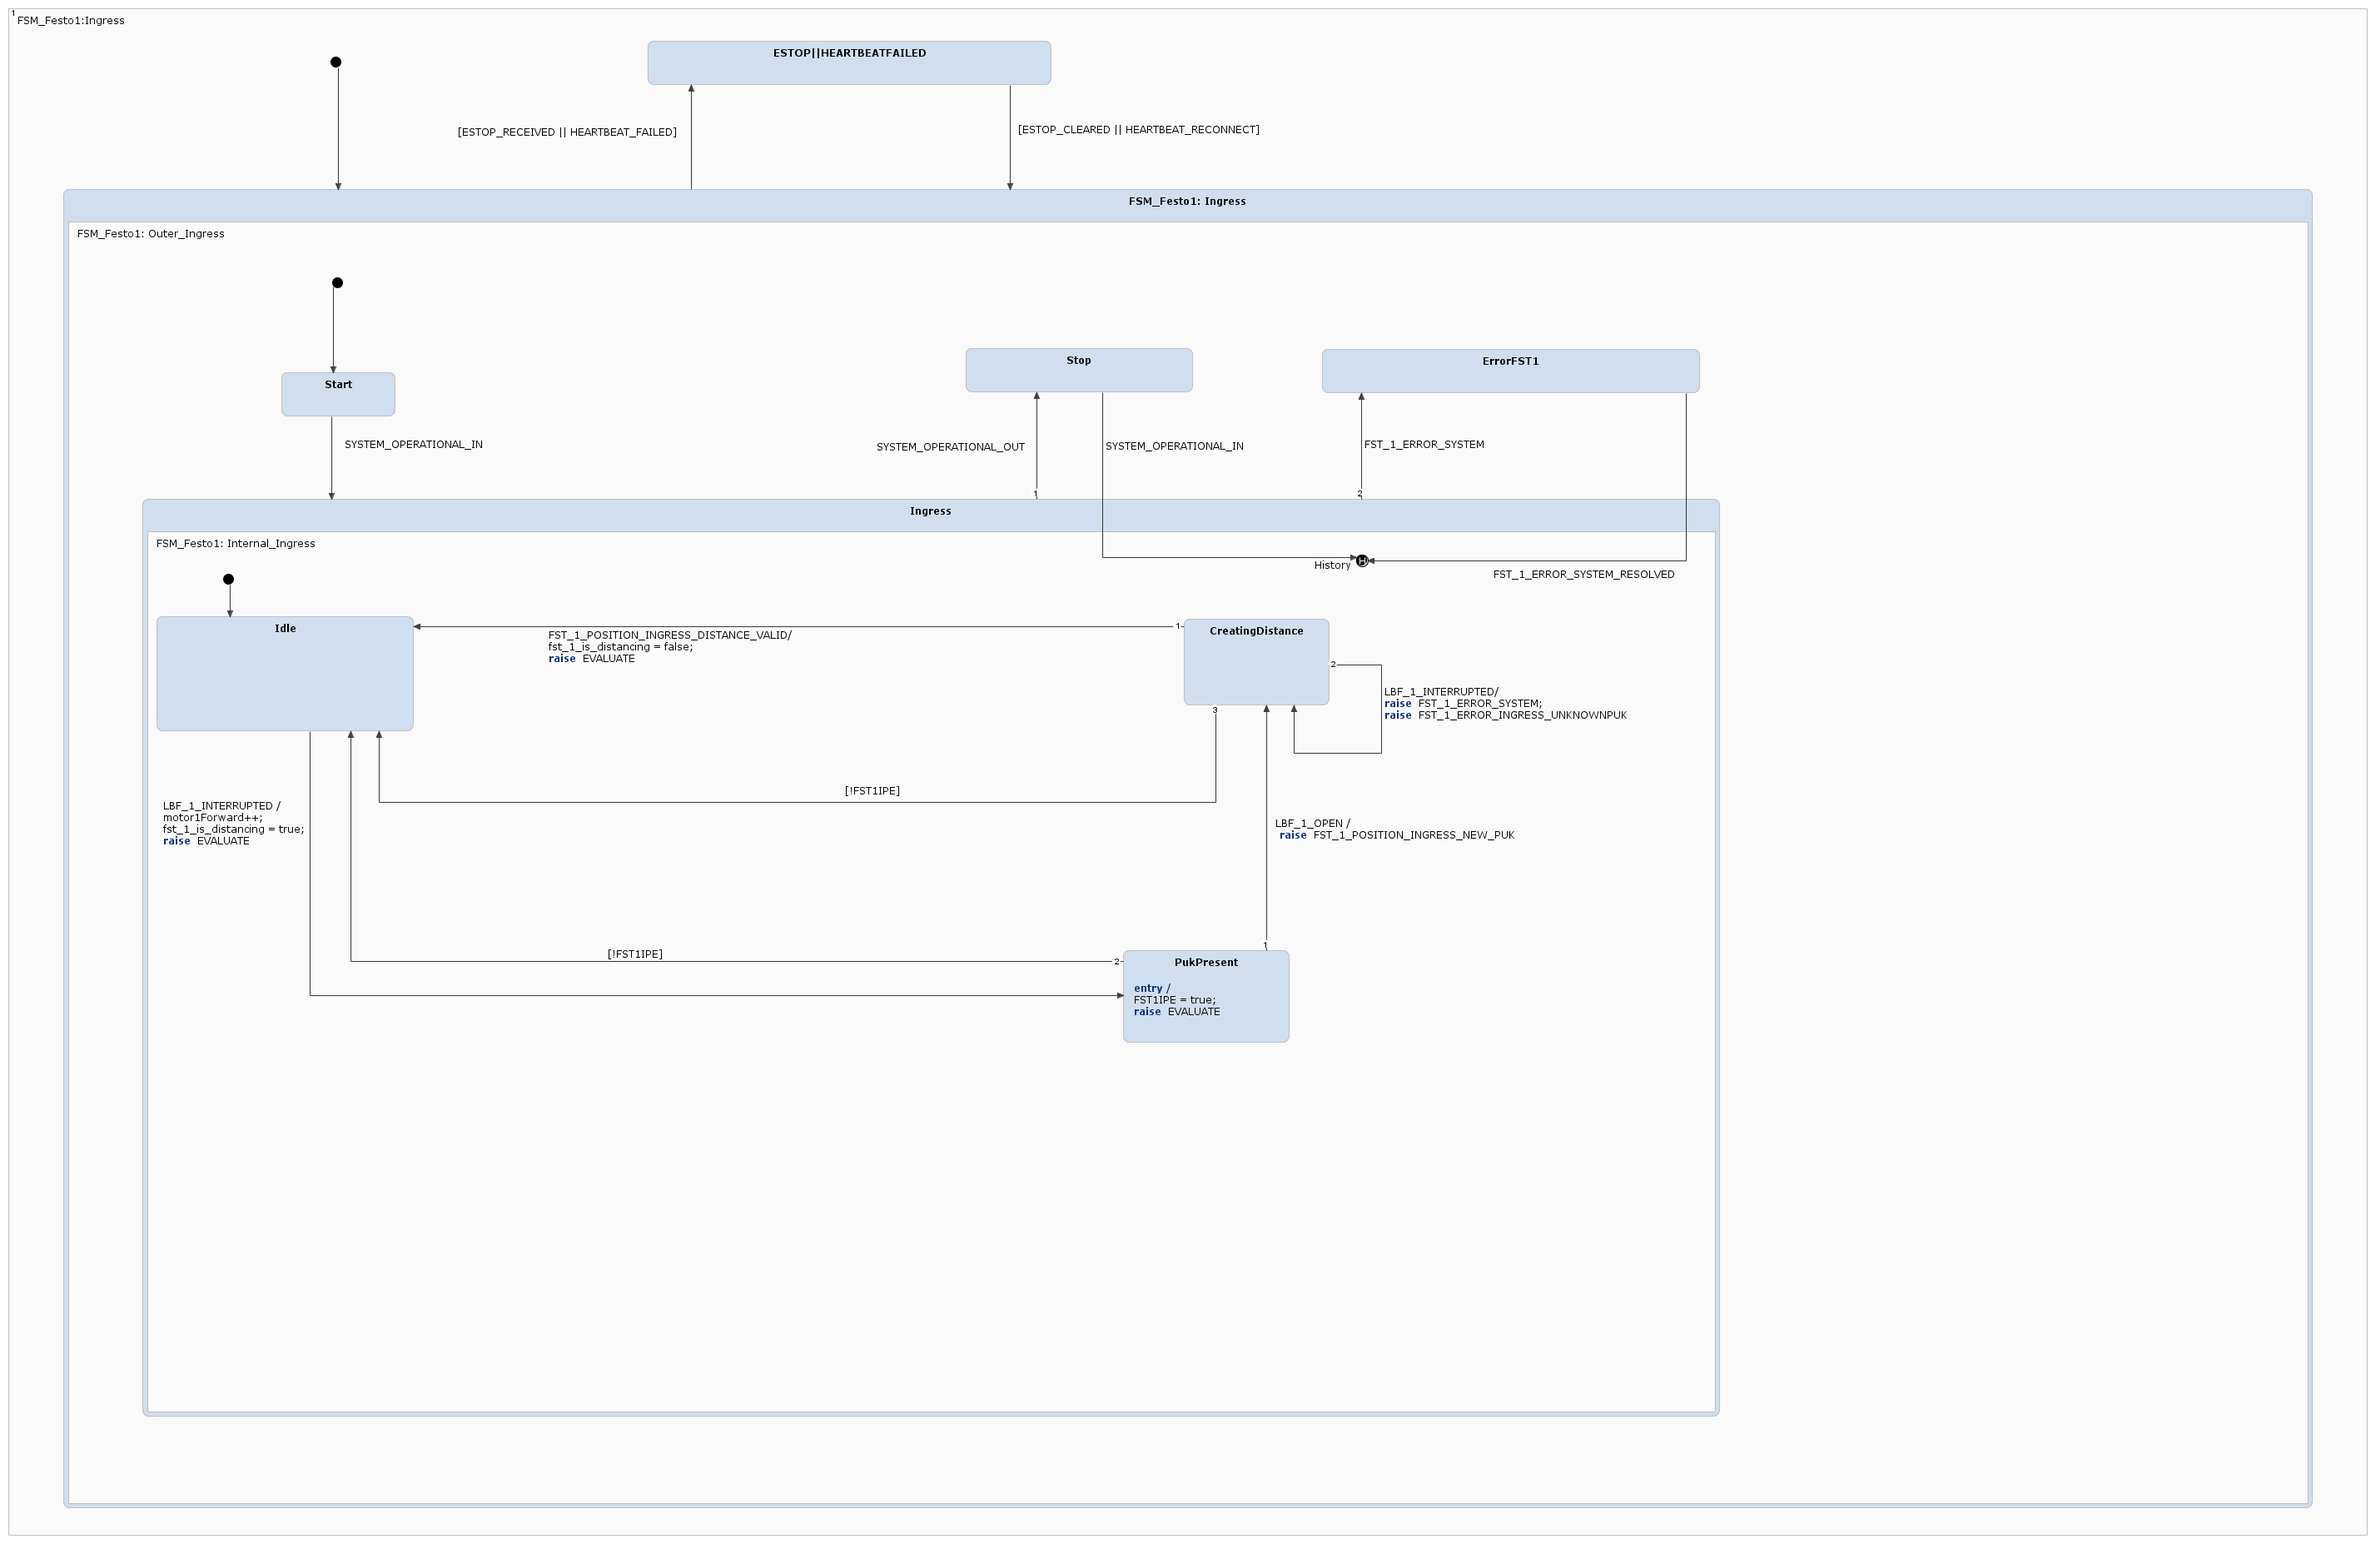
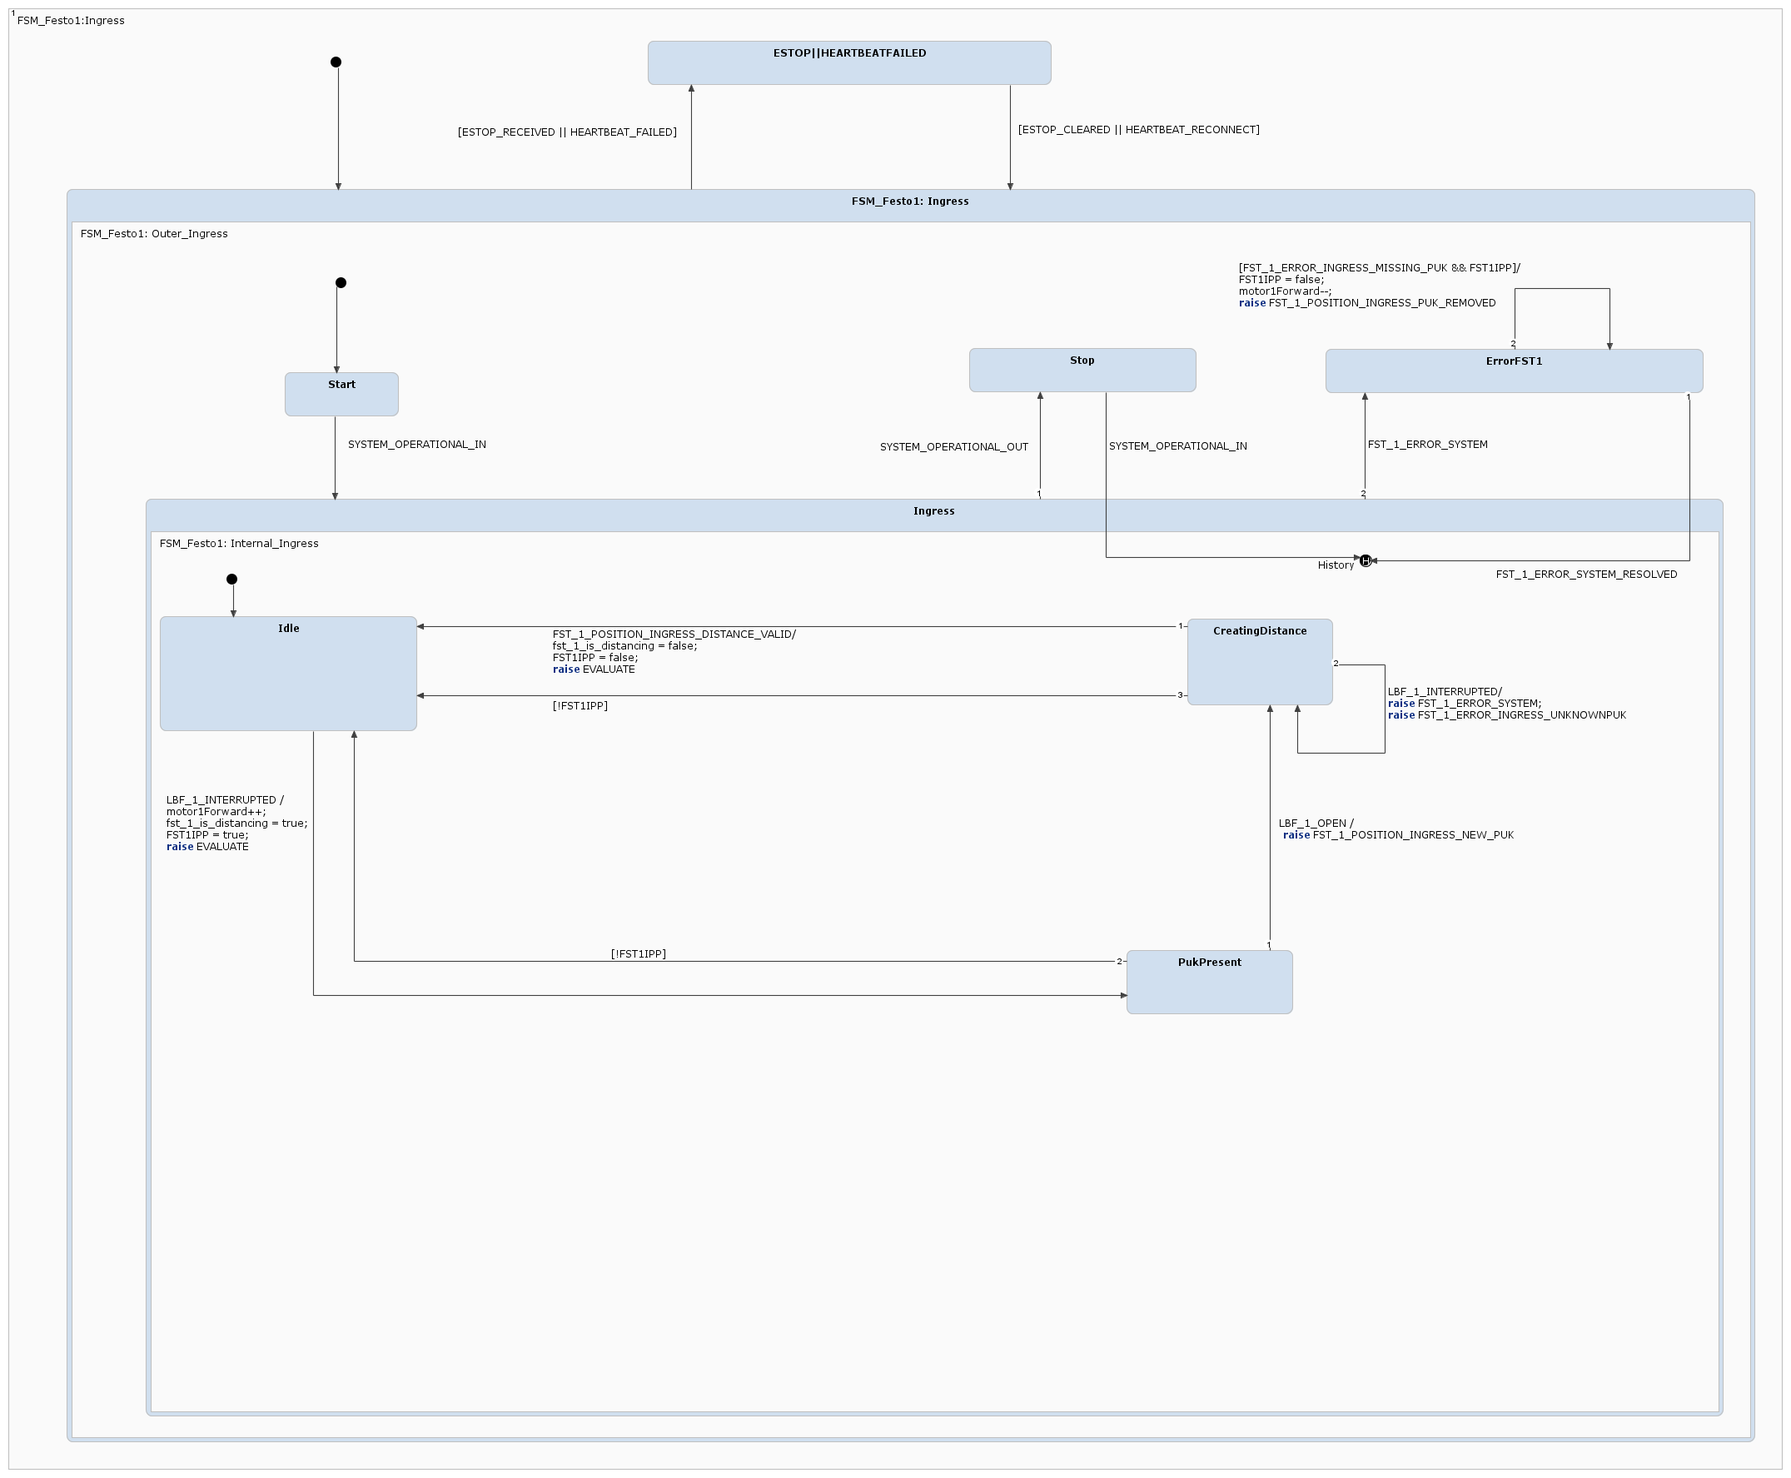
Revisit I1 and readd support for puk removal during error + fix FST1IPP logic

diff --git a/src/FSM/gen/src-gen/FSM.cpp b/src/FSM/gen/src-gen/FSM.cpp
@@ -474,6 +474,11 @@ bool FSM::dispatchEvent(FSM::EventInstance* event) noexcept
 			local_FST_1_ERROR_SYSTEM_raised = true;
 			break;
 		}
+		case FSM::Event::Internal_local_FST_1_ERROR_INGRESS_MISSING_PUK:
+		{
+			local_FST_1_ERROR_INGRESS_MISSING_PUK_raised = true;
+			break;
+		}
 		case FSM::Event::Internal_local_ESTOP_CLEARED:
 		{
 			local_ESTOP_CLEARED_raised = true;
@@ -547,11 +552,6 @@ bool FSM::dispatchEvent(FSM::EventInstance* event) noexcept
 		case FSM::Event::Internal_local_FST_1_ERROR_INGRESS_UNKNOWNPUK:
 		{
 			local_FST_1_ERROR_INGRESS_UNKNOWNPUK_raised = true;
-			break;
-		}
-		case FSM::Event::Internal_local_FST_1_ERROR_INGRESS_MISSING_PUK:
-		{
-			local_FST_1_ERROR_INGRESS_MISSING_PUK_raised = true;
 			break;
 		}
 		case FSM::Event::Internal_local_FST_1_ERROR_EGRESS_UNKNOWNPUK:
@@ -2087,6 +2087,12 @@ void FSM::raiseLocal_FST_1_ERROR_SYSTEM() {
 }
 
 
+void FSM::raiseLocal_FST_1_ERROR_INGRESS_MISSING_PUK() {
+	internalEventQueue.push_back(new FSM::EventInstance(FSM::Event::Internal_local_FST_1_ERROR_INGRESS_MISSING_PUK))
+	;
+}
+
+
 void FSM::raiseLocal_ESTOP_CLEARED() {
 	internalEventQueue.push_back(new FSM::EventInstance(FSM::Event::Internal_local_ESTOP_CLEARED))
 	;
@@ -2173,12 +2179,6 @@ void FSM::raiseLocal_FST_1_ERROR_RAMPFULL_UNKNOWNPUK() {
 
 void FSM::raiseLocal_FST_1_ERROR_INGRESS_UNKNOWNPUK() {
 	internalEventQueue.push_back(new FSM::EventInstance(FSM::Event::Internal_local_FST_1_ERROR_INGRESS_UNKNOWNPUK))
-	;
-}
-
-
-void FSM::raiseLocal_FST_1_ERROR_INGRESS_MISSING_PUK() {
-	internalEventQueue.push_back(new FSM::EventInstance(FSM::Event::Internal_local_FST_1_ERROR_INGRESS_MISSING_PUK))
 	;
 }
 
@@ -3636,15 +3636,15 @@ void FSM::setFastRun(bool FastRun_) noexcept
 {
 	this->FastRun = FastRun_;
 }
-bool FSM::getFST1IPE() const noexcept
+bool FSM::getFST1IPP() const noexcept
 {
-	return FST1IPE
+	return FST1IPP
 	;
 }
 
-void FSM::setFST1IPE(bool FST1IPE_) noexcept
+void FSM::setFST1IPP(bool FST1IPP_) noexcept
 {
-	this->FST1IPE = FST1IPE_;
+	this->FST1IPP = FST1IPP_;
 }
 bool FSM::getFST1HMPE() const noexcept
 {
@@ -4508,15 +4508,6 @@ void FSM::setWarning_lamp_active(bool warning_lamp_active_) noexcept
 }
 
 // implementations of all internal functions
-/* Entry action for state 'PukPresent'. */
-void FSM::enact_FSM_Festo1_Ingress_FSM_Festo1__Ingress_FSM_Festo1__Outer_Ingress_Ingress_FSM_Festo1__Internal_Ingress_PukPresent()
-{
-	/* Entry action for state 'PukPresent'. */
-	setFST1IPE(true);
-	EVALUATE_observable.next();
-	raiseLocal_EVALUATE();
-}
-
 /* Entry action for state 'Idle'. */
 void FSM::enact_FSM_Festo1__HeightMeasurement_FSM_Festo1__HeightMeasurement_FSM_Festo1__Outer_HeightMeasurement_HeightMeasurement_FSM_Festo1__Internal_HeightMeasurement_Idle()
 {
@@ -5155,7 +5146,7 @@ void FSM::enact_FSM_SystemV2_FSM_System_FSM_System__Outer_FSM_Festo_FSM_System()
 	setMotor2Slow(0);
 	setMotor2Forward(0);
 	setFirstTimeOperational(true);
-	setFST1IPE(false);
+	setFST1IPP(false);
 	setFST1HMPE(false);
 	setFST1SORPE(false);
 	setFST1EPE(false);
@@ -5510,7 +5501,6 @@ void FSM::enseq_FSM_Festo1_Ingress_FSM_Festo1__Ingress_FSM_Festo1__Outer_Ingress
 void FSM::enseq_FSM_Festo1_Ingress_FSM_Festo1__Ingress_FSM_Festo1__Outer_Ingress_Ingress_FSM_Festo1__Internal_Ingress_PukPresent_default()
 {
 	/* 'default' enter sequence for state PukPresent */
-	enact_FSM_Festo1_Ingress_FSM_Festo1__Ingress_FSM_Festo1__Outer_Ingress_Ingress_FSM_Festo1__Internal_Ingress_PukPresent();
 	stateConfVector[0] = FSM::State::FSM_Festo1_Ingress_FSM_Festo1__Ingress_FSM_Festo1__Outer_Ingress_Ingress_FSM_Festo1__Internal_Ingress_PukPresent;
 	stateConfVectorPosition = 0;
 	historyVector[0] = stateConfVector[0];
@@ -14172,6 +14162,7 @@ sc::integer FSM::FSM_Festo1_Ingress_FSM_Festo1__Ingress_FSM_Festo1__Outer_Ingres
 				exseq_FSM_Festo1_Ingress_FSM_Festo1__Ingress_FSM_Festo1__Outer_Ingress_Ingress_FSM_Festo1__Internal_Ingress_Idle();
 				motor1Forward++;
 				setFst_1_is_distancing(true);
+				setFST1IPP(true);
 				EVALUATE_observable.next();
 				raiseLocal_EVALUATE();
 				enseq_FSM_Festo1_Ingress_FSM_Festo1__Ingress_FSM_Festo1__Outer_Ingress_Ingress_FSM_Festo1__Internal_Ingress_PukPresent_default();
@@ -14205,7 +14196,7 @@ sc::integer FSM::FSM_Festo1_Ingress_FSM_Festo1__Ingress_FSM_Festo1__Outer_Ingres
 				transitioned_after = 0;
 			}  else
 			{
-				if (!(FST1IPE))
+				if (!(FST1IPP))
 				{ 
 					exseq_FSM_Festo1_Ingress_FSM_Festo1__Ingress_FSM_Festo1__Outer_Ingress_Ingress_FSM_Festo1__Internal_Ingress_PukPresent();
 					enseq_FSM_Festo1_Ingress_FSM_Festo1__Ingress_FSM_Festo1__Outer_Ingress_Ingress_FSM_Festo1__Internal_Ingress_Idle_default();
@@ -14235,6 +14226,7 @@ sc::integer FSM::FSM_Festo1_Ingress_FSM_Festo1__Ingress_FSM_Festo1__Outer_Ingres
 			{ 
 				exseq_FSM_Festo1_Ingress_FSM_Festo1__Ingress_FSM_Festo1__Outer_Ingress_Ingress_FSM_Festo1__Internal_Ingress_CreatingDistance();
 				setFst_1_is_distancing(false);
+				setFST1IPP(false);
 				EVALUATE_observable.next();
 				raiseLocal_EVALUATE();
 				enseq_FSM_Festo1_Ingress_FSM_Festo1__Ingress_FSM_Festo1__Outer_Ingress_Ingress_FSM_Festo1__Internal_Ingress_Idle_default();
@@ -14254,7 +14246,7 @@ sc::integer FSM::FSM_Festo1_Ingress_FSM_Festo1__Ingress_FSM_Festo1__Outer_Ingres
 					transitioned_after = 0;
 				}  else
 				{
-					if (!(FST1IPE))
+					if (!(FST1IPP))
 					{ 
 						exseq_FSM_Festo1_Ingress_FSM_Festo1__Ingress_FSM_Festo1__Outer_Ingress_Ingress_FSM_Festo1__Internal_Ingress_CreatingDistance();
 						enseq_FSM_Festo1_Ingress_FSM_Festo1__Ingress_FSM_Festo1__Outer_Ingress_Ingress_FSM_Festo1__Internal_Ingress_Idle_default();
@@ -14287,7 +14279,19 @@ sc::integer FSM::FSM_Festo1_Ingress_FSM_Festo1__Ingress_FSM_Festo1__Outer_Ingres
 				react_FSM_Festo1_Ingress_FSM_Festo1__Ingress_FSM_Festo1__Outer_Ingress_Ingress_FSM_Festo1__Internal_Ingress_History();
 				FSM_Festo1_Ingress_FSM_Festo1__Ingress_react(0);
 				transitioned_after = 0;
-			} 
+			}  else
+			{
+				if ((local_FST_1_ERROR_INGRESS_MISSING_PUK_raised) && (FST1IPP))
+				{ 
+					exseq_FSM_Festo1_Ingress_FSM_Festo1__Ingress_FSM_Festo1__Outer_Ingress_ErrorFST1();
+					setFST1IPP(false);
+					motor1Forward--;
+					FST_1_POSITION_INGRESS_PUK_REMOVED_observable.next();
+					enseq_FSM_Festo1_Ingress_FSM_Festo1__Ingress_FSM_Festo1__Outer_Ingress_ErrorFST1_default();
+					FSM_Festo1_Ingress_FSM_Festo1__Ingress_react(0);
+					transitioned_after = 0;
+				} 
+			}
 		} 
 		/* If no transition was taken */
 		if ((transitioned_after) == (transitioned_before))
@@ -23893,6 +23897,7 @@ void FSM::clearInternalEvents() noexcept {
 	local_ESTOP_RECEIVED_raised = false;
 	local_SYSTEM_OPERATIONAL_OUT_raised = false;
 	local_FST_1_ERROR_SYSTEM_raised = false;
+	local_FST_1_ERROR_INGRESS_MISSING_PUK_raised = false;
 	local_ESTOP_CLEARED_raised = false;
 	local_FST_2_NOT_READY_raised = false;
 	local_FST_2_IS_READY_raised = false;
@@ -23908,7 +23913,6 @@ void FSM::clearInternalEvents() noexcept {
 	local_FST_1_ERROR_SORTING_UNKNOWNPUK_raised = false;
 	local_FST_1_ERROR_RAMPFULL_UNKNOWNPUK_raised = false;
 	local_FST_1_ERROR_INGRESS_UNKNOWNPUK_raised = false;
-	local_FST_1_ERROR_INGRESS_MISSING_PUK_raised = false;
 	local_FST_1_ERROR_EGRESS_UNKNOWNPUK_raised = false;
 	local_FST_1_ERROR_RAMPFULL_MISSING_PUK_raised = false;
 	local_FST_1_ERROR_IN_READY_raised = false;

diff --git a/src/FSM/gen/src-gen/FSM.h b/src/FSM/gen/src-gen/FSM.h
@@ -599,6 +599,7 @@ class FSM : public sc::EventDrivenInterface
 			Internal_local_ESTOP_RECEIVED,
 			Internal_local_SYSTEM_OPERATIONAL_OUT,
 			Internal_local_FST_1_ERROR_SYSTEM,
+			Internal_local_FST_1_ERROR_INGRESS_MISSING_PUK,
 			Internal_local_ESTOP_CLEARED,
 			Internal_local_FST_2_NOT_READY,
 			Internal_local_FST_2_IS_READY,
@@ -614,7 +615,6 @@ class FSM : public sc::EventDrivenInterface
 			Internal_local_FST_1_ERROR_SORTING_UNKNOWNPUK,
 			Internal_local_FST_1_ERROR_RAMPFULL_UNKNOWNPUK,
 			Internal_local_FST_1_ERROR_INGRESS_UNKNOWNPUK,
-			Internal_local_FST_1_ERROR_INGRESS_MISSING_PUK,
 			Internal_local_FST_1_ERROR_EGRESS_UNKNOWNPUK,
 			Internal_local_FST_1_ERROR_RAMPFULL_MISSING_PUK,
 			Internal_local_FST_1_ERROR_IN_READY,
@@ -1155,10 +1155,10 @@ class FSM : public sc::EventDrivenInterface
 		bool getFastRun() const noexcept;
 		/*! Sets the value of the variable 'FastRun' that is defined in the default interface scope. */
 		void setFastRun(bool FastRun) noexcept;
-		/*! Gets the value of the variable 'FST1IPE' that is defined in the default interface scope. */
-		bool getFST1IPE() const noexcept;
-		/*! Sets the value of the variable 'FST1IPE' that is defined in the default interface scope. */
-		void setFST1IPE(bool FST1IPE) noexcept;
+		/*! Gets the value of the variable 'FST1IPP' that is defined in the default interface scope. */
+		bool getFST1IPP() const noexcept;
+		/*! Sets the value of the variable 'FST1IPP' that is defined in the default interface scope. */
+		void setFST1IPP(bool FST1IPP) noexcept;
 		/*! Gets the value of the variable 'FST1HMPE' that is defined in the default interface scope. */
 		bool getFST1HMPE() const noexcept;
 		/*! Sets the value of the variable 'FST1HMPE' that is defined in the default interface scope. */
@@ -1564,7 +1564,7 @@ class FSM : public sc::EventDrivenInterface
 		sc::integer flatPukHeight {0};
 		bool firstLoopCalibration {false};
 		bool FastRun {false};
-		bool FST1IPE {false};
+		bool FST1IPP {false};
 		bool FST1HMPE {false};
 		bool FST1SORPE {false};
 		bool FST1EPE {false};
@@ -1678,7 +1678,6 @@ class FSM : public sc::EventDrivenInterface
 		
 		// prototypes of all internal functions
 		
-		void enact_FSM_Festo1_Ingress_FSM_Festo1__Ingress_FSM_Festo1__Outer_Ingress_Ingress_FSM_Festo1__Internal_Ingress_PukPresent();
 		void enact_FSM_Festo1__HeightMeasurement_FSM_Festo1__HeightMeasurement_FSM_Festo1__Outer_HeightMeasurement_HeightMeasurement_FSM_Festo1__Internal_HeightMeasurement_Idle();
 		void enact_FSM_Festo1__HeightMeasurement_FSM_Festo1__HeightMeasurement_FSM_Festo1__Outer_HeightMeasurement_HeightMeasurement_FSM_Festo1__Internal_HeightMeasurement_Measuring_FSM_Festo1__HeightMeasurement__final_();
 		void enact_FSM_Festo1__HeightMeasurement_FSM_Festo1__HeightMeasurement_FSM_Festo1__Outer_HeightMeasurement_HeightMeasurement_FSM_Festo1__Internal_HeightMeasurement_PukExpected();
@@ -3403,6 +3402,12 @@ class FSM : public sc::EventDrivenInterface
 		/*! Raises the out event 'local_FST_1_ERROR_SYSTEM' of internal scope as a local event. */
 		void raiseLocal_FST_1_ERROR_SYSTEM();
 		
+		/*! Indicates event 'local_FST_1_ERROR_INGRESS_MISSING_PUK' of internal scope is active. */
+		bool local_FST_1_ERROR_INGRESS_MISSING_PUK_raised {false};
+		
+		/*! Raises the out event 'local_FST_1_ERROR_INGRESS_MISSING_PUK' of internal scope as a local event. */
+		void raiseLocal_FST_1_ERROR_INGRESS_MISSING_PUK();
+		
 		/*! Indicates event 'local_ESTOP_CLEARED' of internal scope is active. */
 		bool local_ESTOP_CLEARED_raised {false};
 		
@@ -3492,12 +3497,6 @@ class FSM : public sc::EventDrivenInterface
 		
 		/*! Raises the out event 'local_FST_1_ERROR_INGRESS_UNKNOWNPUK' of internal scope as a local event. */
 		void raiseLocal_FST_1_ERROR_INGRESS_UNKNOWNPUK();
-		
-		/*! Indicates event 'local_FST_1_ERROR_INGRESS_MISSING_PUK' of internal scope is active. */
-		bool local_FST_1_ERROR_INGRESS_MISSING_PUK_raised {false};
-		
-		/*! Raises the out event 'local_FST_1_ERROR_INGRESS_MISSING_PUK' of internal scope as a local event. */
-		void raiseLocal_FST_1_ERROR_INGRESS_MISSING_PUK();
 		
 		/*! Indicates event 'local_FST_1_ERROR_EGRESS_UNKNOWNPUK' of internal scope is active. */
 		bool local_FST_1_ERROR_EGRESS_UNKNOWNPUK_raised {false};
